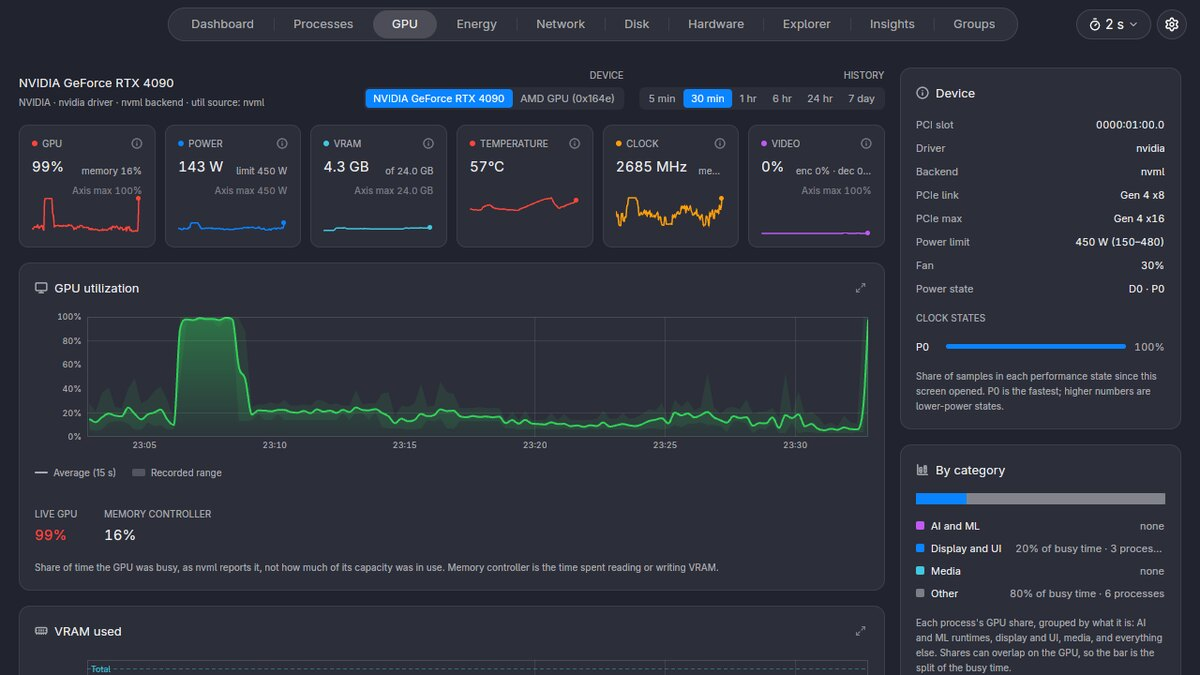
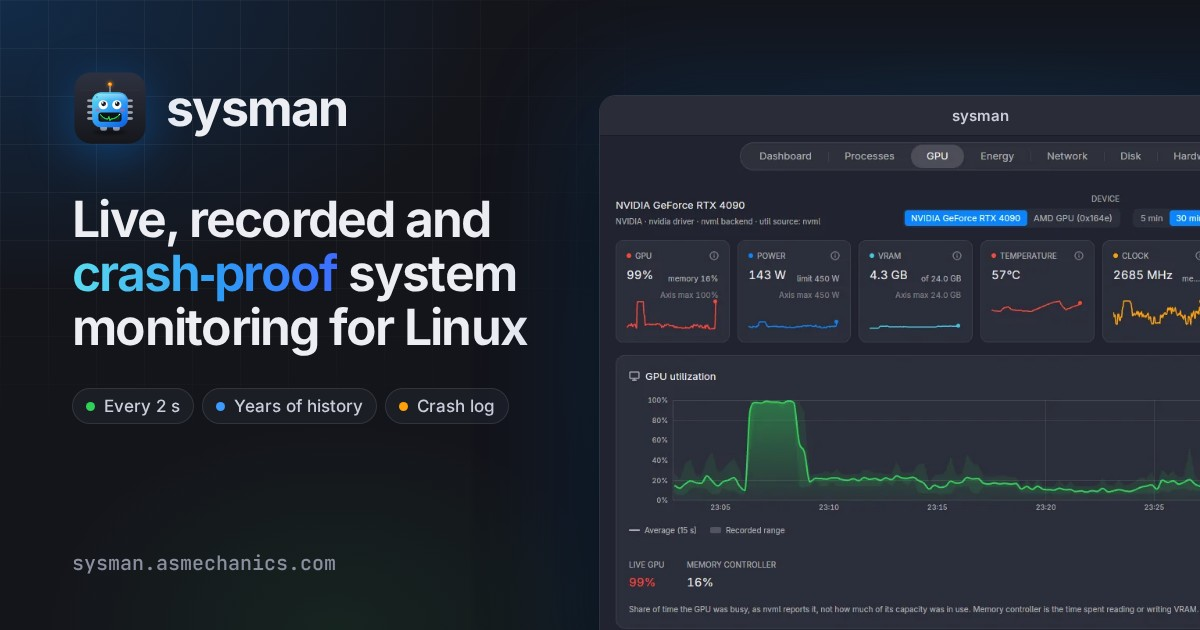
Website: a designed 1200x630 share image, regenerated with npm run og
og/template.html lays out the logo, name, tagline and a framed GPU screen in
the site's dark palette; og/render.js renders it with headless Chromium.

diff --git a/docs/site/og/template.html b/docs/site/og/template.html
@@ -1,0 +1,187 @@
+<!doctype html>
+<html lang="en">
+  <head>
+    <meta charset="utf-8" />
+    <style>
+      @font-face {
+        font-family: "Inter Variable";
+        font-weight: 100 900;
+        src: url("../node_modules/@fontsource-variable/inter/files/inter-latin-wght-normal.woff2") format("woff2-variations");
+      }
+      @font-face {
+        font-family: "JetBrains Mono Variable";
+        font-weight: 100 800;
+        src: url("../node_modules/@fontsource-variable/jetbrains-mono/files/jetbrains-mono-latin-wght-normal.woff2") format("woff2-variations");
+      }
+      * {
+        box-sizing: border-box;
+        margin: 0;
+      }
+      html,
+      body {
+        width: 1200px;
+        height: 630px;
+        overflow: hidden;
+      }
+      body {
+        position: relative;
+        background: #14151b;
+        color: #eceef3;
+        font-family: "Inter Variable", sans-serif;
+        font-feature-settings: "cv11", "ss01";
+        -webkit-font-smoothing: antialiased;
+      }
+      .bg {
+        position: absolute;
+        inset: 0;
+        background:
+          radial-gradient(700px 420px at 0% 0%, rgb(10 132 255 / 0.2), transparent 70%),
+          radial-gradient(620px 460px at 82% 58%, rgb(64 200 224 / 0.16), transparent 70%),
+          radial-gradient(420px 300px at 28% 100%, rgb(48 209 88 / 0.08), transparent 70%);
+      }
+      .bg::after {
+        content: "";
+        position: absolute;
+        inset: 0;
+        background-image:
+          linear-gradient(rgb(255 255 255 / 0.05) 1px, transparent 1px),
+          linear-gradient(90deg, rgb(255 255 255 / 0.05) 1px, transparent 1px);
+        background-size: 48px 48px;
+        mask-image: radial-gradient(ellipse 60% 70% at 15% 20%, #000 20%, transparent 75%);
+      }
+      .copy {
+        position: absolute;
+        left: 72px;
+        top: 70px;
+        width: 490px;
+      }
+      .brand {
+        display: flex;
+        align-items: center;
+        gap: 18px;
+      }
+      .brand img {
+        width: 76px;
+        height: 76px;
+        filter: drop-shadow(0 10px 24px rgb(10 132 255 / 0.35));
+      }
+      .brand span {
+        font-size: 50px;
+        font-weight: 700;
+        letter-spacing: -0.035em;
+      }
+      h1 {
+        margin-top: 46px;
+        font-size: 50px;
+        line-height: 1.08;
+        font-weight: 650;
+        letter-spacing: -0.035em;
+      }
+      .grad {
+        background: linear-gradient(90deg, #5bdcef, #2e9bf5 55%, #3d6dff);
+        -webkit-background-clip: text;
+        background-clip: text;
+        color: transparent;
+      }
+      .points {
+        margin-top: 34px;
+        display: flex;
+        flex-wrap: wrap;
+        gap: 8px;
+      }
+      .points span {
+        display: inline-flex;
+        align-items: center;
+        gap: 9px;
+        padding: 7px 13px;
+        border-radius: 999px;
+        border: 1px solid rgb(255 255 255 / 0.1);
+        background: rgb(30 32 41 / 0.8);
+        font-size: 17px;
+        font-weight: 500;
+        color: #c9cdd9;
+        white-space: nowrap;
+      }
+      .points i {
+        width: 9px;
+        height: 9px;
+        border-radius: 50%;
+      }
+      .url {
+        position: absolute;
+        left: 72px;
+        bottom: 54px;
+        font-family: "JetBrains Mono Variable", monospace;
+        font-size: 20px;
+        font-weight: 500;
+        color: #8b8fa0;
+      }
+      .window {
+        position: absolute;
+        left: 600px;
+        top: 96px;
+        width: 760px;
+        height: 600px;
+        border-radius: 16px;
+        overflow: hidden;
+        background: #21232f;
+        box-shadow:
+          0 0 0 1px rgb(255 255 255 / 0.12),
+          0 40px 100px -20px rgb(0 0 0 / 0.8),
+          0 0 120px 10px rgb(10 132 255 / 0.18);
+      }
+      .titlebar {
+        display: flex;
+        align-items: center;
+        justify-content: center;
+        position: relative;
+        height: 40px;
+        background: #2a2c38;
+        border-bottom: 1px solid rgb(0 0 0 / 0.35);
+        font-size: 15px;
+        font-weight: 600;
+        color: #c9cdd9;
+      }
+      .controls {
+        position: absolute;
+        right: 14px;
+        display: flex;
+        gap: 10px;
+      }
+      .controls b {
+        width: 14px;
+        height: 14px;
+        border-radius: 50%;
+        background: #3a3d4b;
+      }
+      .window img {
+        display: block;
+        width: 1000px;
+        height: auto;
+      }
+    </style>
+  </head>
+  <body>
+    <div class="bg"></div>
+    <div class="copy">
+      <div class="brand">
+        <img src="../../../assets/logo.svg" alt="" />
+        <span>sysman</span>
+      </div>
+      <h1>Live, recorded and <span class="grad">crash&#8209;proof</span> system monitoring for Linux</h1>
+      <div class="points">
+        <span><i style="background: #30d158"></i>Every 2 s</span>
+        <span><i style="background: #3d9bff"></i>Years of history</span>
+        <span><i style="background: #ff9f0a"></i>Crash log</span>
+      </div>
+    </div>
+    <div class="url">sysman.asmechanics.com</div>
+    <div class="window">
+      <div class="titlebar">
+        sysman
+        <div class="controls"><b></b><b></b><b></b></div>
+      </div>
+      <img src="../public/shots/gpu.webp" alt="" />
+    </div>
+  </body>
+</html>

diff --git a/docs/site/og/render.js b/docs/site/og/render.js
@@ -1,0 +1,16 @@
+import { fileURLToPath } from 'node:url'
+import { chromium } from 'playwright'
+
+const template = new URL('./template.html', import.meta.url).href
+const out = fileURLToPath(new URL('../public/og.jpg', import.meta.url))
+
+const browser = await chromium.launch({ headless: true })
+try {
+  const page = await browser.newPage({ viewport: { width: 1200, height: 630 } })
+  await page.goto(template, { waitUntil: 'load' })
+  await page.evaluate(() => document.fonts.ready)
+  await page.screenshot({ path: out, type: 'jpeg', quality: 90 })
+  console.log(`wrote ${out}`)
+} finally {
+  await browser.close()
+}
